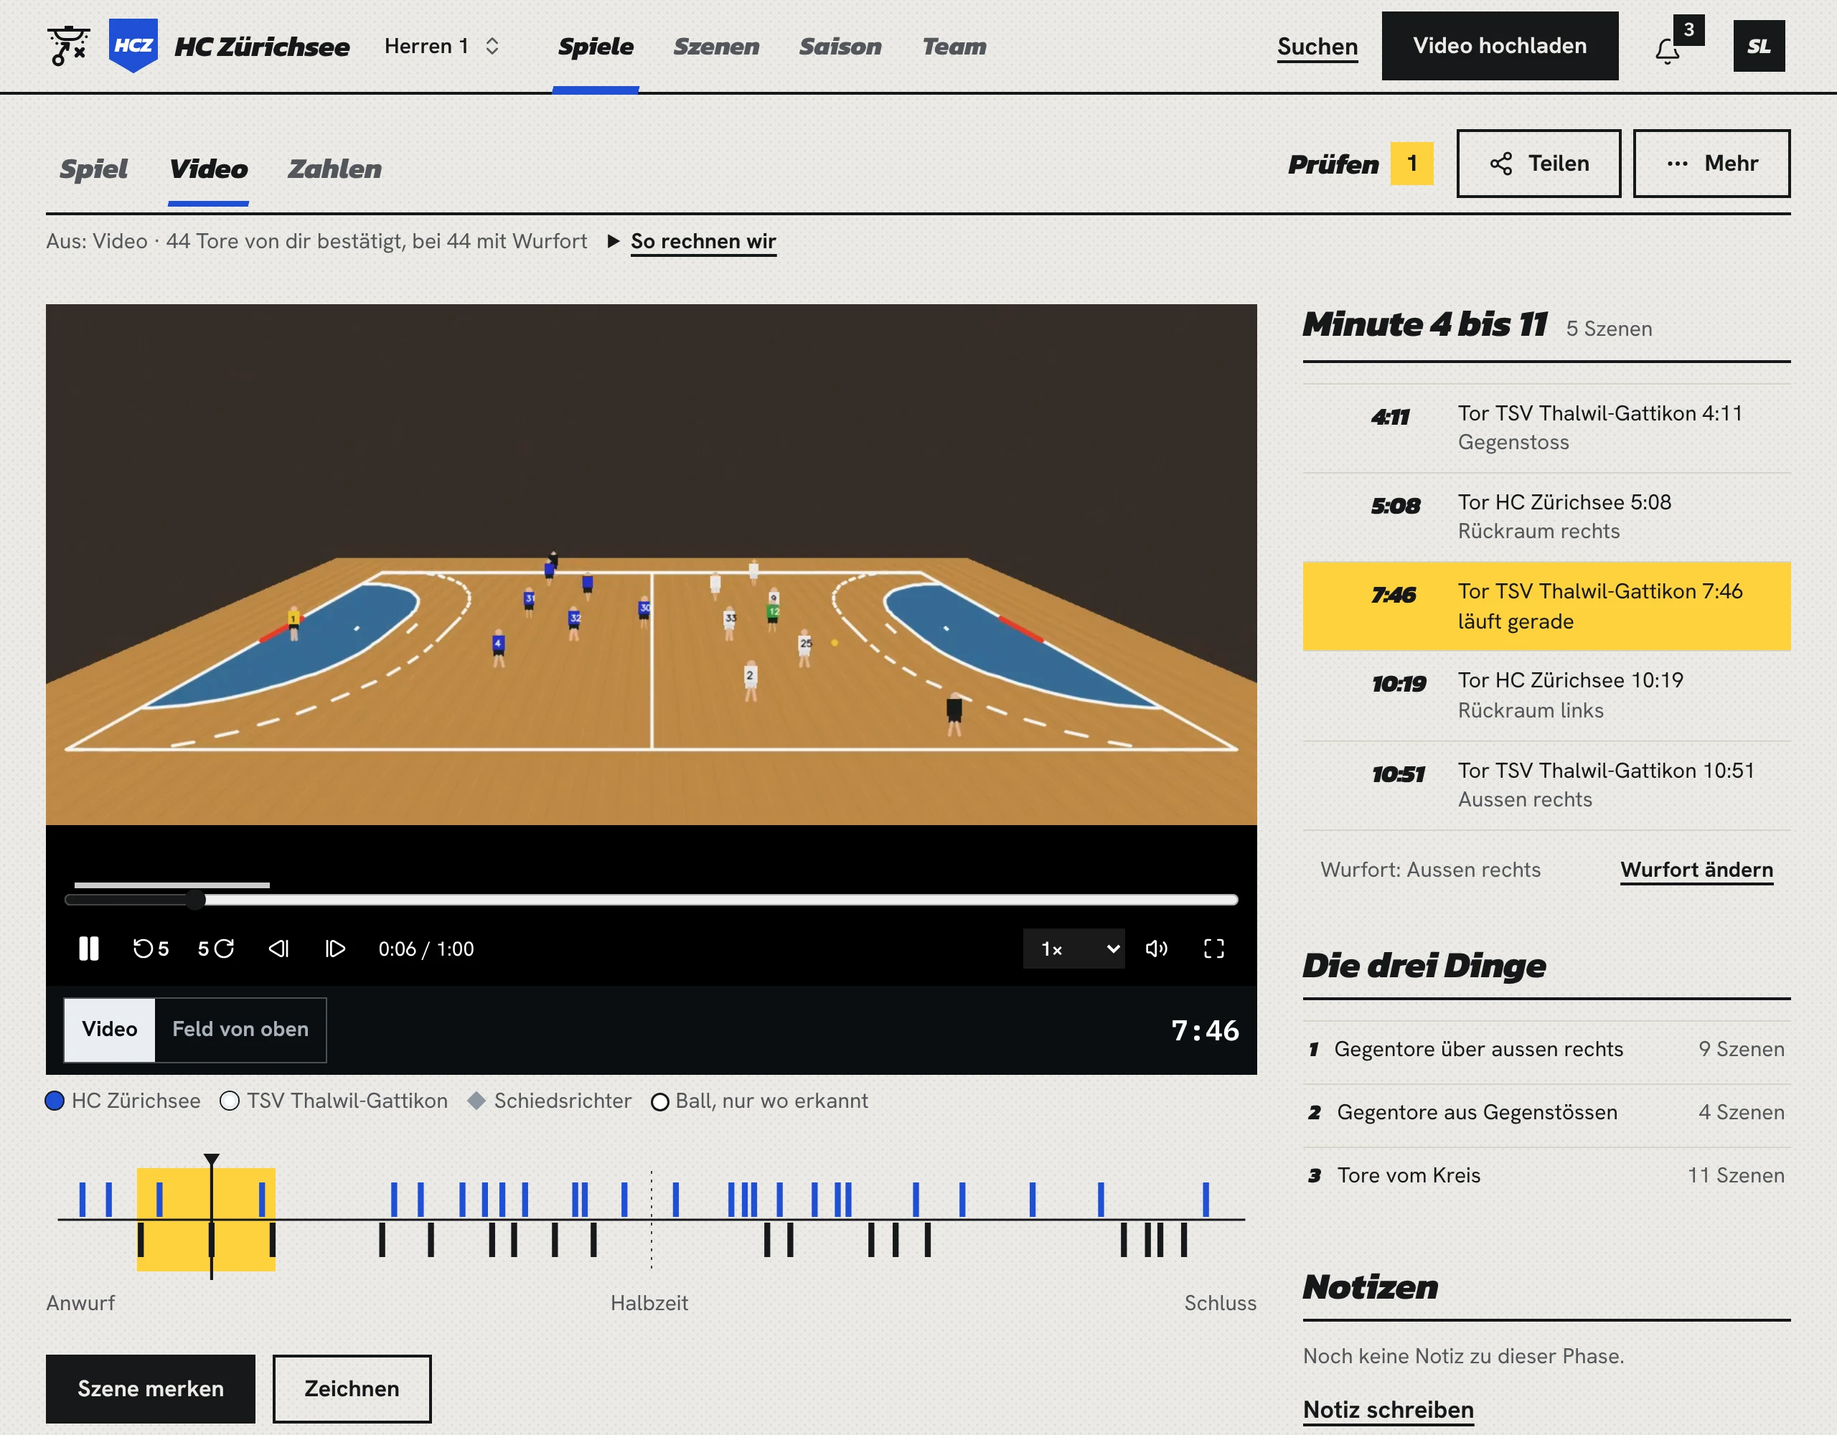
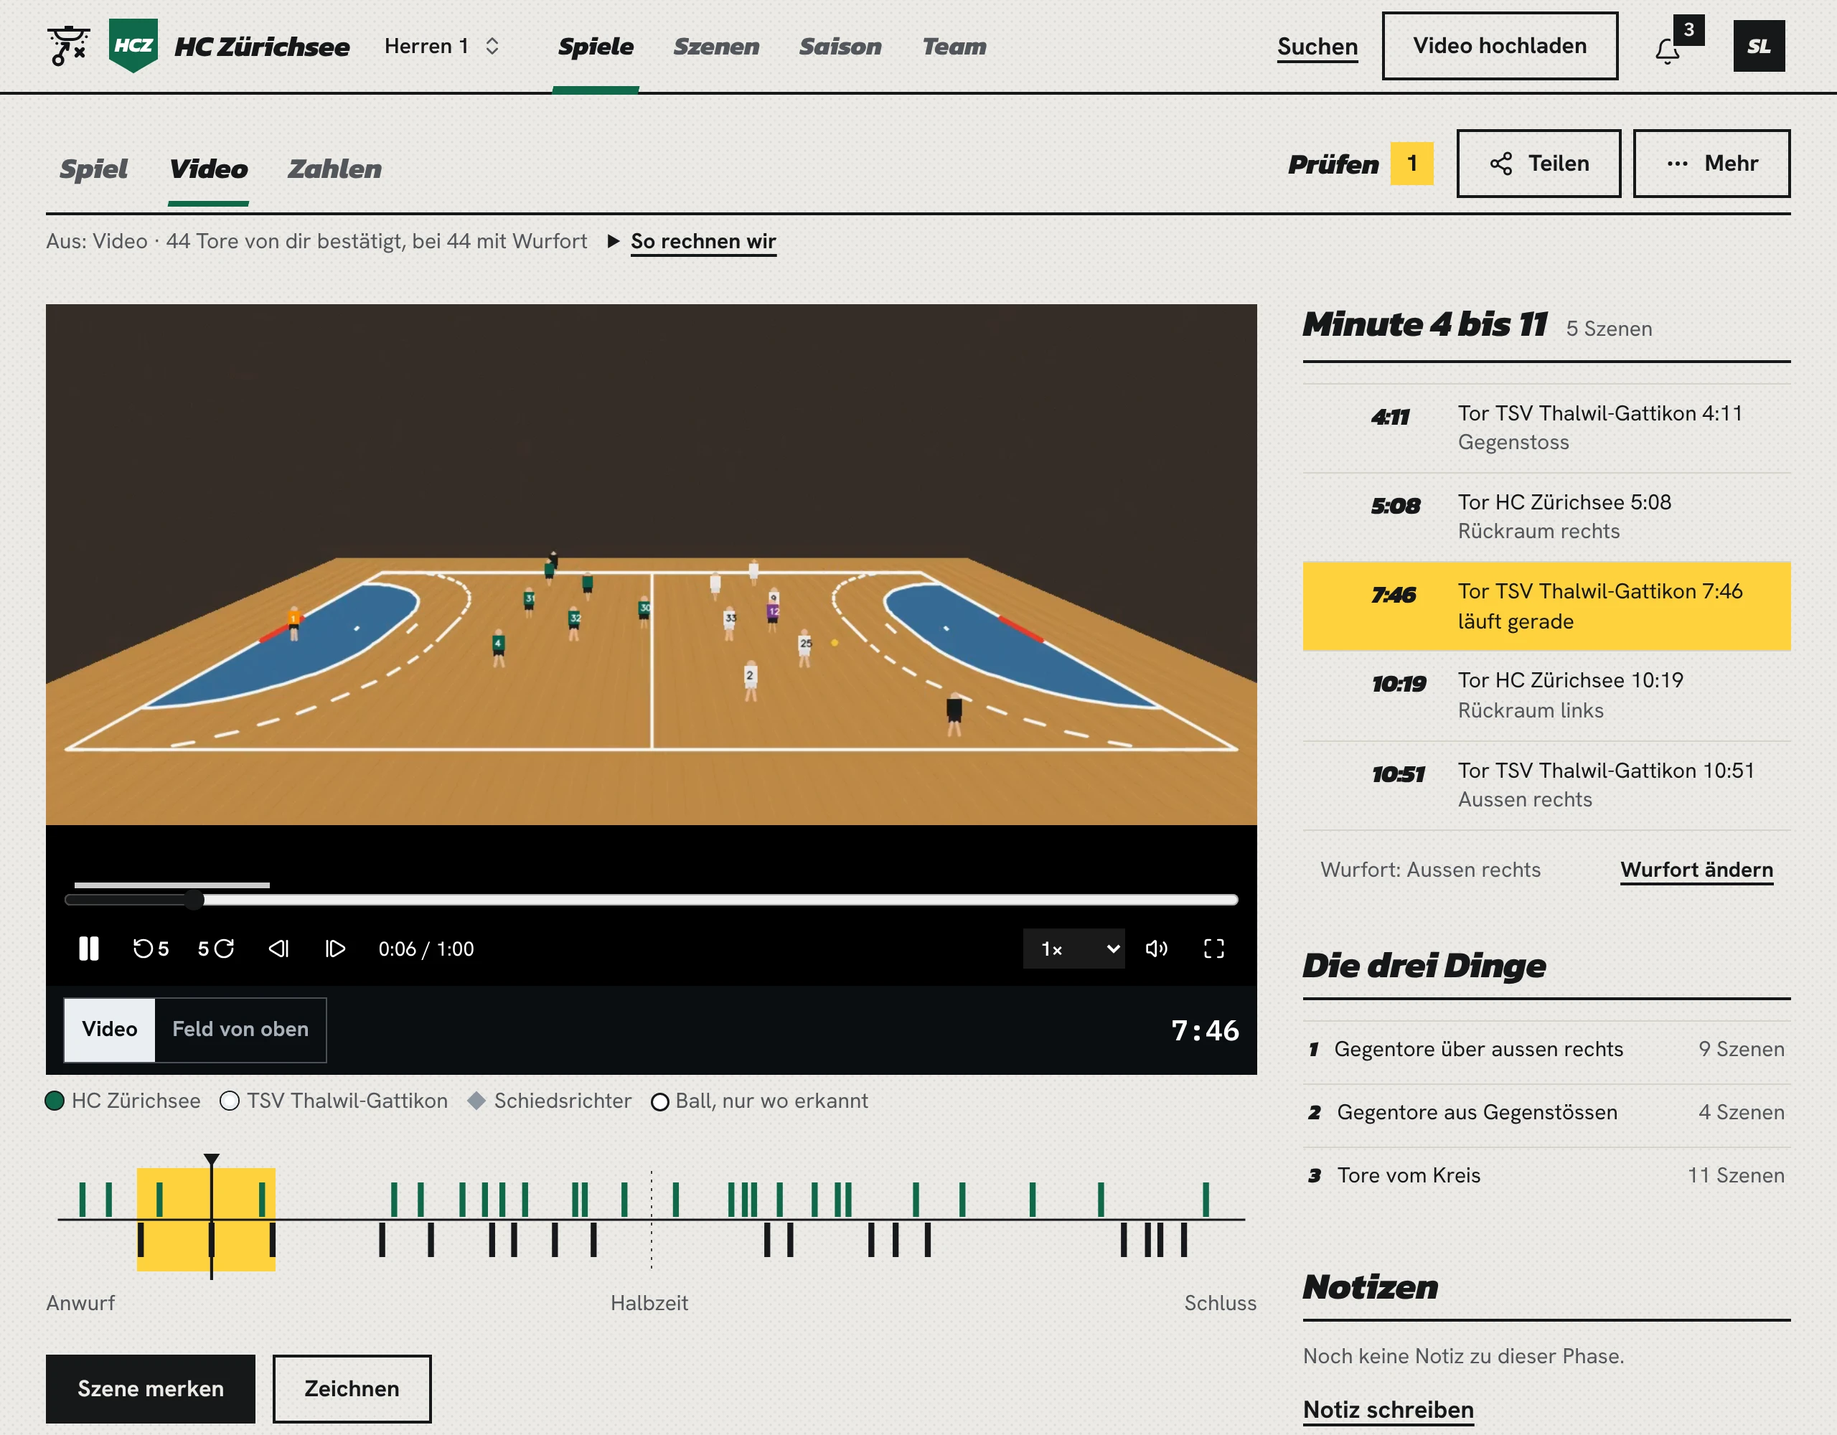
Product pictures again, in the demo club's green; the steps flat in one look (S11, S13)
All pictures taken anew from the seeded demo club in its new green. The three
step pictures are flat cut-outs of the phone in the same shape and frame (no
device, no Keil), the words go in a list under each (start page) or the text
beside it; their sources are captured at four times the pixels. New
`app-desktop`: the whole app on a computer, a match with the video playing,
its scenes and the three things, for the start page. `hero-thing` is gone (the
head draws the three things itself).

capture.mjs can play the match video from a folder (HB_DEMO_HLS_DIR), so a
stack seeded before the footage changed still shows the green shirts a fresh
seed renders; compose.mjs takes a 1x weight per picture.

Claude-Session: https://claude.ai/code/session_01H3gogAPSyQiYdtAJAURpx7

diff --git a/apps/site/scripts/product-shots/stage.js b/apps/site/scripts/product-shots/stage.js
@@ -33,7 +33,7 @@
 
   /**
    * the stage: size in CSS px of the 1x picture; `clear` leaves the background transparent,
-   * `budget2x` sets a smaller weight for the 2x file than compose.mjs's default
+   * `budget1x` and `budget2x` set another weight than compose.mjs's default
    */
   function stage(width, height, opts = {}) {
     const el = document.getElementById("stage");
@@ -43,9 +43,15 @@
       el.classList.add("clear");
       shot.transparent = true;
     }
+    // a flat cut-out of the app: on the app's own paper, no device, no Keil
+    if (opts.paper) el.classList.add("paper");
+    // or on the app's cloth, for pieces of a page (not a sheet)
+    if (opts.cloth) el.classList.add("cloth");
     shot.width = width;
     shot.height = height;
-    // a lower weight for a picture the page loads at once (bytes of the 2x file)
+    // another weight than compose.mjs's default (bytes of the 1x and the 2x file): lower for a
+    // picture the page loads at once, higher for a wide screen full of small text
+    if (opts.budget1x) shot.budget1x = opts.budget1x;
     if (opts.budget2x) shot.budget2x = opts.budget2x;
     return el;
   }
@@ -112,6 +118,18 @@
     return screen(scr, name, crop);
   }
 
+  /**
+   * A flat piece of a capture on the stage, without a device: `crop` = [x, y, w, h] in app CSS px,
+   * placed at `left`, `top` and `width` in stage px. Returns the map like `screen`.
+   */
+  function piece(name, crop, { left, top, width }) {
+    const el = document.createElement("div");
+    el.className = "screen piece";
+    Object.assign(el.style, { position: "absolute", left: `${left}px`, top: `${top}px`, width: `${width}px` });
+    document.getElementById("stage").append(el);
+    return screen(el, name, crop);
+  }
+
   /** where a box inside `el` sits on the stage */
   function onStage(el, [x, y, w, h]) {
     const s = document.getElementById("stage").getBoundingClientRect();
@@ -175,5 +193,5 @@
     window.READY = shot;
   }
 
-  window.S = { cap, rect, stage, screen, phone, browser, onStage, ring, spot, at, callout, done };
+  window.S = { cap, rect, stage, screen, piece, phone, browser, onStage, ring, spot, at, callout, done };
 })();

diff --git a/apps/site/scripts/product-shots/templates/step-check.html b/apps/site/scripts/product-shots/templates/step-check.html
@@ -1,19 +1,23 @@
 <!doctype html>
-<!-- Step «Prüfen»: the question «Passt das Spielfeld?» with the four yellow points the analysis
-     proposes, and the answer «Passt». -->
+<!-- Step «Prüfen»: flat pieces of the phone (S11: the three steps in one look, no device, no Keil):
+     the picture with the four yellow points the analysis proposes, the question «Passt das
+     Spielfeld?» and the answer «Passt», ringed. The lines between them are left out. -->
 <meta charset="utf-8" />
 <link rel="stylesheet" href="../stage.css" />
-<div id="stage"><div class="keil" style="--from: 76%; --to: 52%"></div></div>
+<div id="stage"></div>
 <script src="../stage.js"></script>
 <script>
-  S.stage(640, 620);
-  const pts = S.rect("pruefen-phone", "points", [32, 103, 325, 62]);
+  S.stage(640, 620, { cloth: true });
+  const q = S.rect("pruefen-phone", "question", [16, 449, 358, 76]);
   const yes = S.rect("pruefen-phone", "yes", [16, 614, 358, 56]);
-  // from just above the points down to the answers
-  const s = S.phone("pruefen-phone", { left: 214, y: pts[1] - 24, at: 0 });
-  S.ring(s, yes, 4);
-  // the left point of the four: the lowest left corner of their box
-  S.callout("propose", [195, 150], S.at(s, pts, 0.02, 0.86), "br", 0.2, 31);
-  S.callout("confirm", [195, 600], S.at(s, yes, 0.02, 0.5), "tr", -0.2, 31);
+  const W = 560;
+  const k = W / 358;
+  // the video picture with the points (the dark frame of the app around it)
+  S.piece("pruefen-phone", [16, 22, 358, 218], { left: 40, top: 22, width: W });
+  const top2 = 22 + 218 * k + 16;
+  S.piece("pruefen-phone", [16, q[1], 358, q[3]], { left: 40, top: top2, width: W });
+  const top3 = top2 + q[3] * k + 6;
+  const c = S.piece("pruefen-phone", [14, yes[1] - 8, 362, yes[3] + 16], { left: 40 - 2 * k, top: top3, width: W + 4 * k });
+  S.ring(c, yes, 4);
   S.done();
 </script>

diff --git a/apps/site/scripts/product-shots/templates/step-result.html b/apps/site/scripts/product-shots/templates/step-result.html
@@ -1,17 +1,17 @@
 <!doctype html>
-<!-- Step «Anschauen und teilen»: the first of the three things on the phone, «9 von 18 Gegentore
-     über aussen rechts», with the shots on the half court. -->
+<!-- Step «Anschauen und teilen»: the first of the three things cut flat out of the phone (S11: the
+     steps in one look, no device, no Keil), «9 von 18 Gegentore über aussen rechts» with the shots
+     on the half court, ringed. -->
 <meta charset="utf-8" />
 <link rel="stylesheet" href="../stage.css" />
-<div id="stage"><div class="keil" style="--from: 76%; --to: 52%"></div></div>
+<div id="stage"></div>
 <script src="../stage.js"></script>
 <script>
-  S.stage(640, 620);
-  const s = S.phone("dinge-phone", { left: 214, bottom: 26 });
+  S.stage(640, 620, { paper: true });
   const thing = S.rect("dinge-phone", "thing", [16, 290, 358, 110]);
-  const dots = S.rect("dinge-phone", "dots", [320, 500, 44, 52]);
-  S.ring(s, dots, 8, true);
-  S.callout("things", [195, 130], S.at(s, thing, 0.03, 0.3), "br", 0.2, 31);
-  S.callout("dots", [195, 330], S.at(s, dots, 0, 0.6), "br", -0.15, 31);
+  const dots = S.rect("dinge-phone", "dots", [325, 482, 42, 46]);
+  // from just above «1 von 3» down through the half court
+  const s = S.piece("dinge-phone", [6, thing[1] - 14, 378, 366], { left: 0, top: 0, width: 640 });
+  S.ring(s, dots, 9, true);
   S.done();
 </script>

diff --git a/apps/site/scripts/product-shots/templates/step-upload.html b/apps/site/scripts/product-shots/templates/step-upload.html
@@ -1,15 +1,16 @@
 <!doctype html>
-<!-- Step «Hochladen»: the phone with the upload sheet, the first match ringed. -->
+<!-- Step «Hochladen»: the upload sheet cut flat out of the phone (S11: the three steps in one look,
+     no device, no Keil), «Zu welchem Spiel gehört das Video?» with the first match ringed. -->
 <meta charset="utf-8" />
 <link rel="stylesheet" href="../stage.css" />
-<div id="stage"><div class="keil" style="--from: 76%; --to: 52%"></div></div>
+<div id="stage"></div>
 <script src="../stage.js"></script>
 <script>
-  S.stage(640, 620);
-  // the phone stands on the bottom edge: its lower part with the sheet is what shows
-  const s = S.phone("hochladen-phone", { left: 214, bottom: 26 });
+  S.stage(640, 620, { paper: true });
+  const sheet = S.rect("hochladen-phone", "dialog", [0, 480, 390, 364]);
   const row = S.rect("hochladen-phone", "first", [24, 583, 342, 56]);
-  S.ring(s, row, 4);
-  S.callout("pick", [195, 300], S.at(s, row, 0.02, 0.4), "tr", 0.2, 31);
+  // from the sheet's title down to the screen's bottom edge, a little narrower than the phone
+  const s = S.piece("hochladen-phone", [10, sheet[1] + 6, 370, 358], { left: 0, top: 0, width: 640 });
+  S.ring(s, row, 5);
   S.done();
 </script>

diff --git a/apps/site/scripts/product-shots/templates/app-desktop.html b/apps/site/scripts/product-shots/templates/app-desktop.html
@@ -1,0 +1,18 @@
+<!doctype html>
+<!-- The real app on a computer (S13), start page under the three things: a match with its video,
+     the scenes of the phase (the one playing in yellow), the three things and all goals on the
+     timeline. The whole browser window, no Keil, no callouts: the page says what it is. -->
+<meta charset="utf-8" />
+<link rel="stylesheet" href="../stage.css" />
+<div id="stage"></div>
+<script src="../stage.js"></script>
+<script>
+  const c = S.cap("video");
+  const W = 1200;
+  const k = (W - 4) / c.w;
+  // a wide screen full of small text: more weight than the default, still loaded only when seen
+  S.stage(W, Math.round(30 + c.h * k + 4), { budget1x: 170 * 1024, budget2x: 340 * 1024 });
+  S.browser("video", [0, 0, c.w, c.h], { left: 0, top: 0, width: W });
+  document.querySelector(".browser").style.boxShadow = "none";
+  S.done();
+</script>

diff --git a/apps/site/src/app/[locale]/ueber-uns/page.tsx b/apps/site/src/app/[locale]/ueber-uns/page.tsx
@@ -60,7 +60,7 @@ export default async function AboutUs({ params }: Props) {
           <div className="min-w-0">
             <div className="lg:sticky lg:top-6">
               <figure className="m-0 max-w-[26rem]">
-                <ProductShot name="step-result" alt={t.shotAlt} labels={m.product["step-result"]} sizes="(min-width: 1024px) 26rem, calc(100vw - 2rem)" />
+                <ProductShot name="step-result" alt={t.shotAlt} labels={{}} sizes="(min-width: 1024px) 26rem, calc(100vw - 2rem)" />
                 <figcaption className="mt-3 text-[1.0625rem] text-ink-2">{t.shotCaption}</figcaption>
               </figure>
               <ProductShot name="share" alt={m.home.shareAlt} labels={m.product.share} sizes="(min-width: 1024px) 26rem, calc(100vw - 2rem)" className="mt-10 max-w-[26rem]" />

diff --git a/apps/site/src/app/[locale]/so-funktioniert-es/page.tsx b/apps/site/src/app/[locale]/so-funktioniert-es/page.tsx
@@ -26,7 +26,8 @@ const SHOTS = ["get-video", "get-search", "get-season", "share"] as const;
 function StepPicture({ i, alt, m }: { i: number; alt: string; m: Messages }) {
   if (i === 0) return <HallPlan label={m.filming.planLabel} camera={m.filming.planCamera} field={m.filming.planField} corner={m.filming.planCorner} />;
   const name = STEPS[i - 1]!;
-  return <ProductShot name={name} alt={alt} labels={m.product[name]} sizes="(min-width: 768px) 26rem, calc(100vw - 2rem)" />;
+  // flat cut-outs of the app, in one look with the start page's steps (S11); the text says the rest
+  return <ProductShot name={name} alt={alt} labels={{}} sizes="(min-width: 768px) 26rem, calc(100vw - 2rem)" />;
 }
 
 export async function generateMetadata({ params }: Props): Promise<Metadata> {

diff --git a/apps/site/scripts/product-shots/stage.css b/apps/site/scripts/product-shots/stage.css
@@ -37,6 +37,25 @@ body {
 #stage.clear {
   background: transparent;
 }
+#stage.paper {
+  background: var(--paper);
+}
+/* the app's cloth: the ground with its fine mesh (apps/web globals.css) */
+#stage.cloth {
+  background-color: var(--ground);
+  background-image:
+    radial-gradient(rgb(22 23 26 / 0.07) 0.7px, transparent 0.9px),
+    radial-gradient(rgb(22 23 26 / 0.05) 0.7px, transparent 0.9px);
+  background-size:
+    6px 6px,
+    6px 6px;
+  background-position:
+    0 0,
+    3px 3px;
+}
+.screen.piece {
+  background: transparent;
+}
 
 /* the Keil: the club colour (the demo club's green) from a slanted edge down to the bottom, like the heads on the site */
 .keil {

diff --git a/apps/site/src/app/[locale]/aufnahme/page.tsx b/apps/site/src/app/[locale]/aufnahme/page.tsx
@@ -134,7 +134,7 @@ export default async function Filming({ params }: Props) {
             </Link>
           </div>
           <div data-reveal style={{ "--d": 1 } as CSSProperties}>
-            <ProductShot name="step-upload" alt={t.afterAlt} labels={m.product["step-upload"]} sizes="(min-width: 768px) 26rem, calc(100vw - 2rem)" />
+            <ProductShot name="step-upload" alt={t.afterAlt} labels={{}} sizes="(min-width: 768px) 26rem, calc(100vw - 2rem)" />
           </div>
         </section>
 

diff --git a/apps/site/scripts/product-shots/README.md b/apps/site/scripts/product-shots/README.md
@@ -1,18 +1,21 @@
 # Product pictures
 
 The pictures of the app on the website (start page, «So funktioniert es», «Über uns») are not raw
-screenshots: real screens of the app, placed into designed pictures with a device frame, the club
-blue Keil behind it, a soft shadow and yellow rings on what matters. The arrows and their labels
+screenshots: real screens of the app, placed into designed pictures. The steps are flat cut-outs
+of the phone in one shape and look (no device, no Keil; BEFUNDE-2 S11), the computer pictures sit
+in a browser window, some on the club's Keil with a soft shadow; yellow rings mark what matters. The arrows and their labels
 are drawn by the website over the picture, as real text in the visitor's language
 (`src/components/product-shot.tsx`, texts in `src/messages/*.ts` under `product`). They show the
 seeded demo club (HC Zürichsee, invented players, synthetic videos), never real people, and only
-what the app really shows.
+what the app really shows. The demo club plays in the website's own pine green (`#10684a`, seed
+and synthetic footage), so the pictures sit in the site's colours (cream, green, ink).
 
 The website tells its own story with the demo match (a defeat, 16:18; `scripts/make_demo.py`),
 while the seeded club in the app won its match 26:18. So no picture shows a score or the match's
 headline («Gewonnen.»), and none shows the season's sentence: the pictures are cut-outs of what
 matters, in the app's own brightness (no darkened surroundings), and the numbers the story needs
-(9 von 18 über aussen rechts) are in them. `captures/ergebnis-*.webp` are no longer used.
+(9 von 18 über aussen rechts) are in them. `captures/ergebnis-*.webp` are no longer used. The start page's head draws the three things itself
+(components/hero-things.tsx), so there is no `hero-thing` picture any more.
 
 ## Make them all again
 
@@ -45,7 +48,13 @@ node apps/site/scripts/product-shots/capture.mjs video saison           # only t
 ```
 
 Options by environment: `HB_APP_URL` (default `http://localhost:3000`), `HB_DEMO_EMAIL`,
-`HB_DEMO_PASSWORD` (default the seeded demo login), `PLAYWRIGHT_CHROMIUM_PATH`. Running the app on
+`HB_DEMO_PASSWORD` (default the seeded demo login), `PLAYWRIGHT_CHROMIUM_PATH`, and
+`HB_DEMO_HLS_DIR`: a folder with the match video as HLS, laid out like the video's media folder
+(`hls/master.m3u8`, `hls/720p/index.m3u8`, `init.mp4`, `seg_*.m4s`, as the worker writes it), which
+the capture plays instead of the app's. It is for a stack seeded before the demo footage changed:
+render the match with `uv run python -m handball_vision.synthetic spiel.mp4 --seconds 60 --seed 13
+--demo` (the third match of `scripts/seed.py`, the one «Spiel öffnen» leads to) and package it with
+ffmpeg like `apps/worker` (`-f hls -hls_segment_type fmp4 -master_pl_name master.m3u8`). Running the app on
 a second dev server (another port)? The API takes writes only from the origin it knows, so add
 `HB_API_ORIGIN=http://localhost:3000`. Playwright comes from `apps/web` (`@playwright/test`), so
 `pnpm install` is enough.
@@ -58,10 +67,10 @@ warns. After either step, look at the pictures on the site at 390 and 1280 px.
 
 | Picture | Shows | Where |
 |---|---|---|
-| `hero-thing` | cut-out of the first of the three things, «9 von 18, Gegentore über aussen rechts», «Alle 9» and the shots, ring on the shots (transparent around) | start page, head |
-| `step-upload` | phone, «Video hochladen»: which match is the video from? | step 2 (start page, «So funktioniert es») |
-| `step-check` | phone, «Passt das Spielfeld?» with the four yellow points and «Passt» | step 3 |
-| `step-result` | phone, the first of the three things with its shots on the half court | «So funktioniert es», step 4; «Über uns» |
+| `app-desktop` | browser, the whole app on a computer: a match with the video playing, the scenes of the phase, the three things, all goals on the timeline (no callouts, the page's caption says it) | start page, under the three things (S13) |
+| `step-upload` | flat cut-out, «Video hochladen»: which match is the video from? first match ringed | step 2 (start page, «So funktioniert es», «Filmen») |
+| `step-check` | flat pieces on the app's cloth: the picture with the four yellow points, «Passt das Spielfeld?» and «Passt» (ringed) | step 3 |
+| `step-result` | flat cut-out, the first of the three things with its shots on the half court, ring on the shots | «So funktioniert es», step 4; «Über uns» |
 | `get-video` | browser, a match: video, the scene that plays, all goals on the timeline | «So sieht es aus» |
 | `get-search` | browser, «Szenen»: the search, the answer with its base, «Alle 24 abspielen» | «So sieht es aus» |
 | `get-season` | browser, «Saison», cut below the title: what repeats, one bar per match, the shots on the court | «So sieht es aus» |
@@ -71,7 +80,8 @@ warns. After either step, look at the pictures on the site at 390 and 1280 px.
 
 Add `templates/<name>.html` (copy one that is close), a screen to `SHOTS` in `capture.mjs` if it
 needs one, the callout texts under `product.<name>` in all three message files, and use
-`<ProductShot name="<name>" …>` on the page. Keep the style: the same phone size (`PHONE_SCREEN`
-in `stage.js`), the Keil, yellow rings with an ink edge, at most two callouts, and each label
-short (it wraps at under half the picture's width). On a picture shown under 28rem wide arrows and labels
+`<ProductShot name="<name>" …>` on the page. Keep the style: the steps as flat cut-outs at 640 x 620
+(`S.piece`, `S.stage(…, { paper: true })` or `{ cloth: true }`), the others with the same phone size
+(`PHONE_SCREEN` in `stage.js`) or a browser window, yellow rings with an ink edge, at most two
+callouts, and each label short (it wraps at under half the picture's width). On a picture shown under 28rem wide arrows and labels
 go and the words stand below it.
